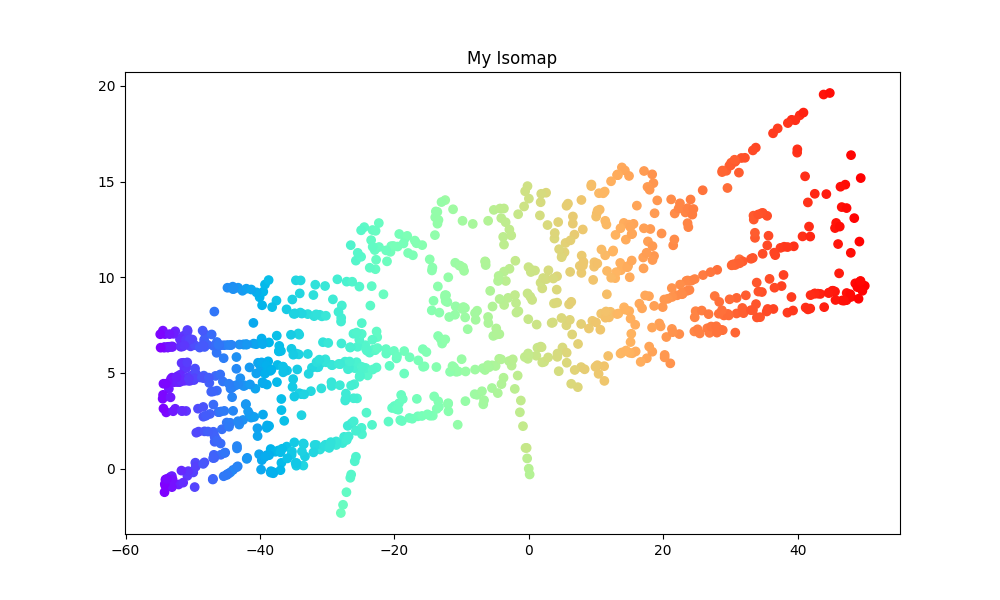
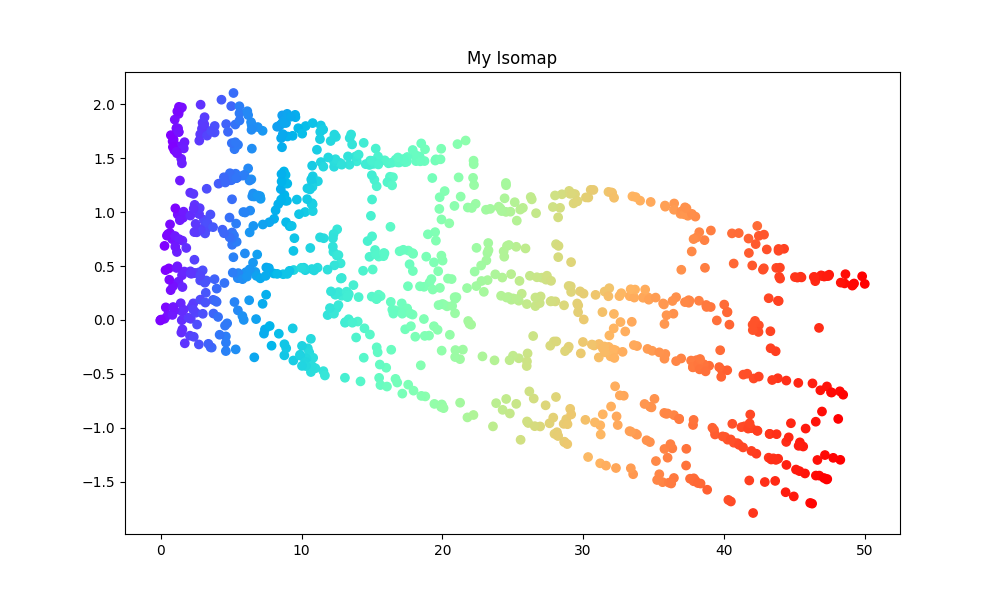
small fix

diff --git a/isomap.py b/isomap.py
@@ -5,7 +5,7 @@ from scipy.sparse.csgraph import shortest_path
 from sklearn.datasets import make_swiss_roll
 from sklearn.manifold import Isomap
 
-X, color = make_swiss_roll(n_samples=1000, random_state=2021)
+X, color = make_swiss_roll(n_samples=1000, random_state=2022)
 
 euclidean_distances_3d = np.zeros((1000, 1000))
 for i in range(len(X)):
@@ -44,6 +44,7 @@ ax.scatter(X[:, 0], X[:, 1], X[:, 2], c=color, cmap=plt.cm.rainbow)
 ax.view_init(10, -80)
 plt.title('Swiss Roll in 3D')
 plt.savefig('SwissRoll.png')
+plt.close()
 
 iso = Isomap(n_components=2)
 
@@ -52,6 +53,7 @@ plt.figure(figsize=(10, 6))
 plt.scatter(X_iso[:, 0], X_iso[:, 1], c=color, cmap=plt.cm.rainbow)
 plt.title('Standart Isomap')
 plt.savefig('StandartIsoMap.png')
+plt.close()
 
 plt.figure(figsize=(10, 6))
 plt.scatter(X_2d[:, 0], X_2d[:, 1], c=color, cmap=plt.cm.rainbow)
